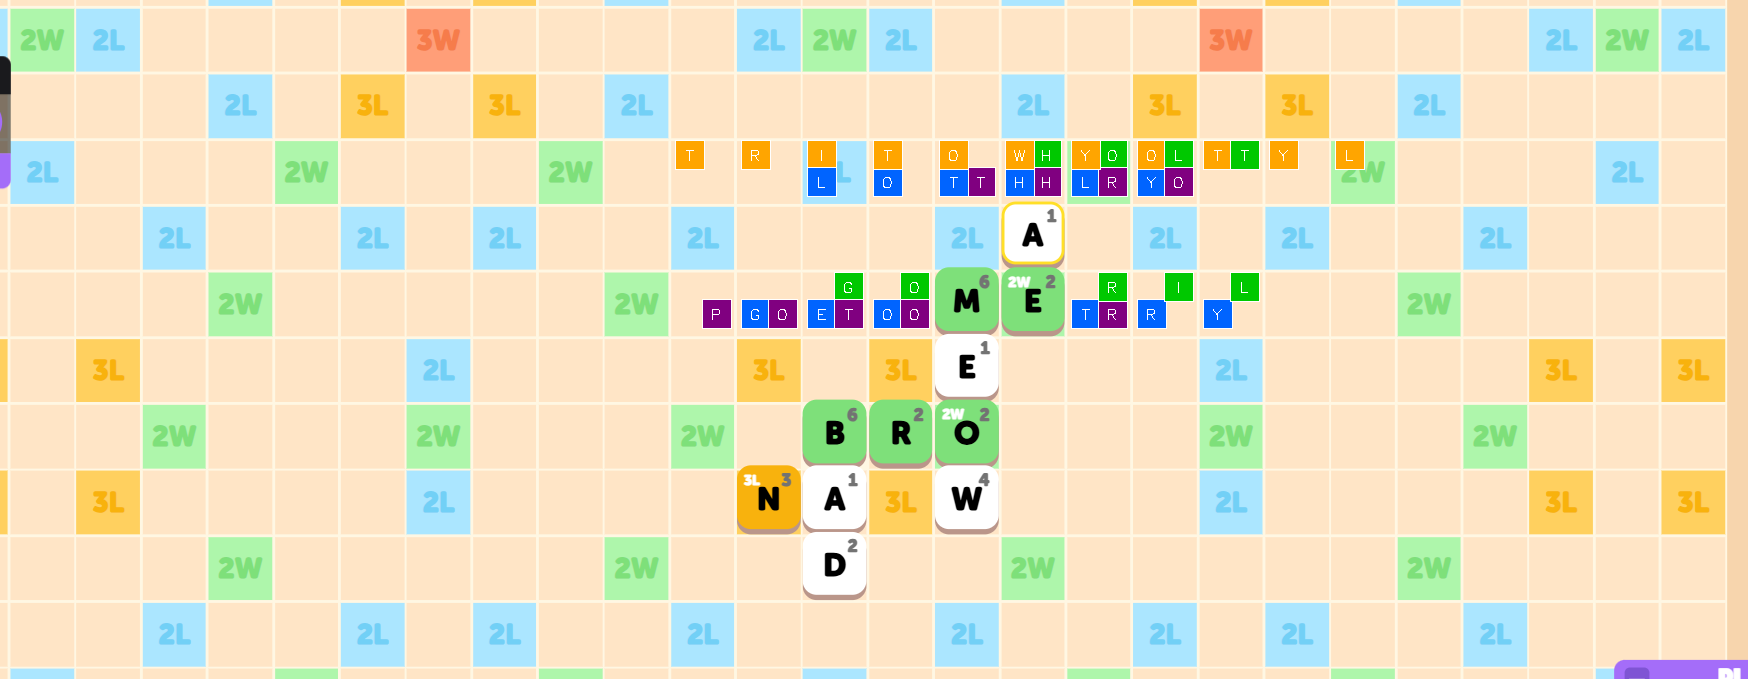
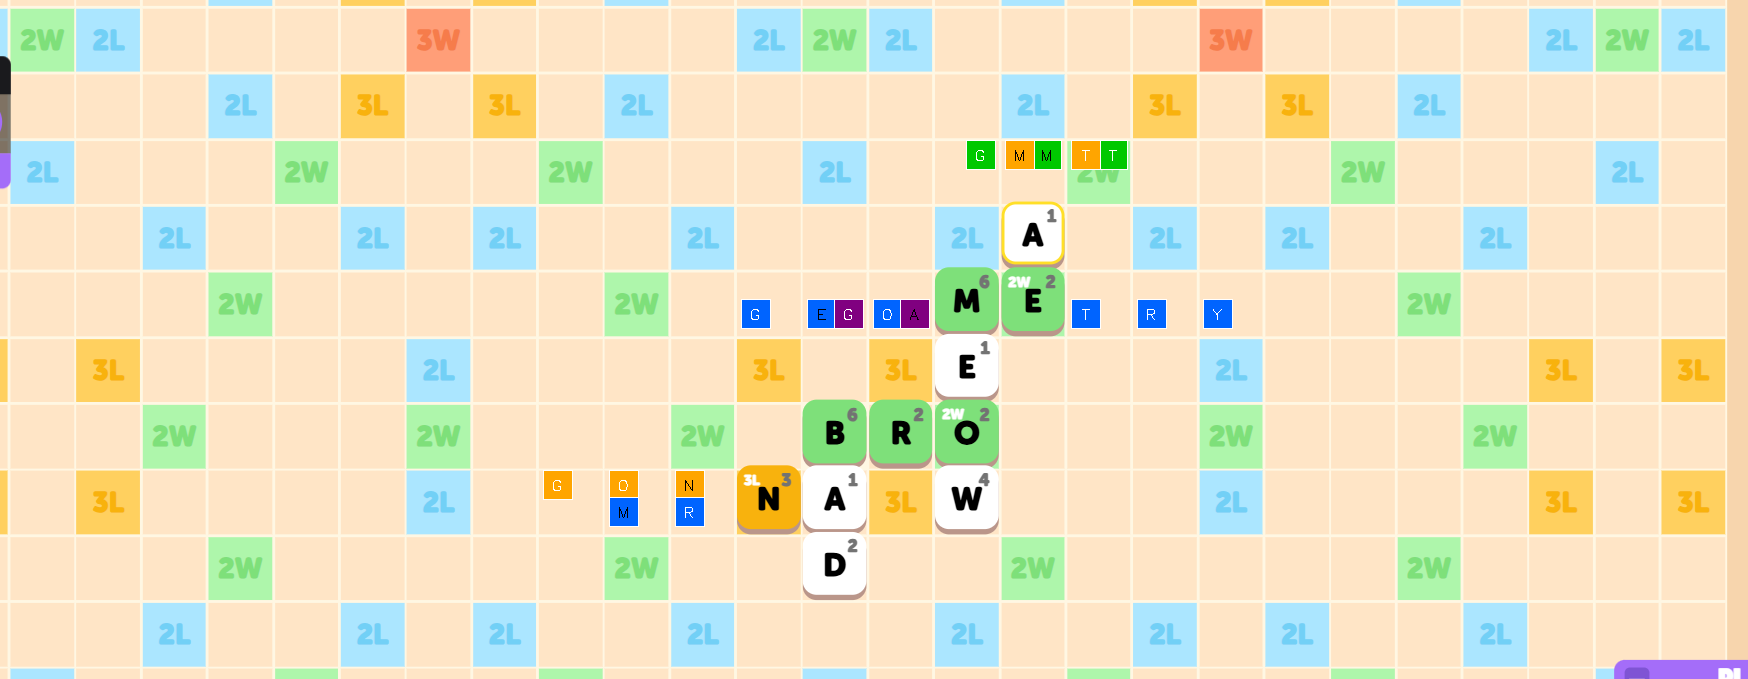
v2.13 用手牌版

diff --git a/website/letter_league/main.py b/website/letter_league/main.py
@@ -7,26 +7,23 @@ import time
 from collections import defaultdict
 
 # ==============================================================================
-# ⚙ 用户配置区域 (USER CONFIGURATION) - 在这里手动调整
+# ⚙ 用户配置区域 (USER CONFIGURATION)
 # ==============================================================================
 
-# 📁 路径配置
-INPUT_IMAGE = "./test.png"       # 游戏截图路径
-LOGO_IMAGE  = "./test_logo.png"  # Logo 模板路径
-DICT_FILE   = "./twl06_ENABLE.txt"      # 字典文件路径
-OUTPUT_DIR  = "./output"         # 输出目录 (不再使用 combined 子文件夹)
+INPUT_IMAGE = "./test.png"
+LOGO_IMAGE  = "./test_logo.png"
+DICT_FILE   = "./twl06_google10000.txt"
+OUTPUT_DIR  = "./output"
 
-# 🤖 推荐算法配置
-REC_TOP_N   = 6    # 推荐前几名最佳走法 (比如 3 或 5)
-REC_SHORT_N = 6    # 推荐前几名短走法 (用于防守或清牌)
-MIN_DIST    = 1    # 走法之间的最小格距离 (避免推荐挤在一起，设为 0 则不限制)
-SHORT_LEN   = 4    # 定义"短走法"的最大长度 (<= 这个长度算短词)
+REC_TOP_N   = 3    # 推荐前几名
+REC_SHORT_N = 3    # 推荐短词前几名
+MIN_DIST    = 3    # 走法间距
+SHORT_LEN   = 4    # 短词定义
 
-# 🎨 可视化配置
-VIS_SHOW_DEBUG = True  # 是否保存中间的调试图 (如网格线、分割图)
+VIS_SHOW_DEBUG = True
 
 # ==============================================================================
-# 🧠 第一部分：GADDAG 核心算法 & 求解器
+# 🧠 第一部分：GADDAG 核心算法
 # ==============================================================================
 
 class GADDAGNode:
@@ -72,12 +69,17 @@ class GADDAG:
         node.is_end = True
     
     def contains(self, word):
-        path = word[::-1] + self.delimiter
+        # 验证单词是否存在 (全大写)
+        path = word.upper()[::-1] + self.delimiter
         node = self.root
         for c in path:
             if c not in node.edges: return False
             node = node.edges[c]
         return node.is_end
+
+# ==============================================================================
+# 🧠 第二部分：求解器 (修复万能牌 & 强制出牌逻辑)
+# ==============================================================================
 
 class ScrabbleSolver:
     def __init__(self, gaddag):
@@ -94,15 +96,21 @@ class ScrabbleSolver:
     def solve(self, rack_str):
         self.rack = list(rack_str.upper())
         self.results = []
+        
+        # 1. 计算 Cross-Sets
         self._compute_cross_sets()
+        
+        # 2. 搜索
         for row in range(self.N):
             self._gen_row(row)
             
         unique = {}
         for res in self.results:
+            # key 包括单词、位置
             key = f"{res['word']}_{res['row']}_{res['col']}"
             if key not in unique: unique[key] = res
         
+        # 按长度排序
         return sorted(unique.values(), key=lambda x: len(x['word']), reverse=True)
 
     def _compute_cross_sets(self):
@@ -141,12 +149,9 @@ class ScrabbleSolver:
         anchors = []
         for i in range(self.N):
             if line[i] == '':
-                has_neighbor = False
-                if i>0 and line[i-1]!='': has_neighbor=True
-                if i<14 and line[i+1]!='': has_neighbor=True
-                if row>0 and self.board[row-1][i]!='': has_neighbor=True
-                if row<14 and self.board[row+1][i]!='': has_neighbor=True
-                if has_neighbor: anchors.append(i)
+                if (i>0 and line[i-1]!='') or (i<14 and line[i+1]!='') or \
+                   (row>0 and self.board[row-1][i]!='') or (row<14 and self.board[row+1][i]!=''):
+                    anchors.append(i)
         
         if not anchors and all(c=='' for r_ in self.board for c in r_):
             anchors.append(7)
@@ -156,34 +161,49 @@ class ScrabbleSolver:
             
             allowed = self.cross_sets[row][anchor]
             unique_rack = set(self.rack)
-            candidates = allowed if '?' in unique_rack else allowed.intersection(unique_rack)
+            
+            # 候选集：Rack里的字 OR (如果有问号 ? 则允许所有 CrossSet 里的字)
+            if '?' in unique_rack:
+                candidates = allowed
+            else:
+                candidates = allowed.intersection(unique_rack)
 
             for char in candidates:
                 if char in self.g.root.edges:
+                    # 决定消耗什么：优先消耗实名牌，没有则消耗 ?
                     to_remove = char if char in self.rack else '?'
+                    
                     if to_remove in self.rack:
                         self.rack.remove(to_remove)
+                        
+                        # 核心点：如果是问号变的，记录为小写字母，方便显示
+                        display_char = char.lower() if to_remove == '?' else char
+                        
                         new_node = self.g.root.edges[char]
-                        self._gen(row, anchor-1, char, new_node, anchor, "LEFT")
+                        # tiles_placed = 1 (因为我们在 anchor 放了一张牌)
+                        self._gen(row, anchor-1, display_char, new_node, anchor, "LEFT", tiles_placed=1)
                         
                         if self.g.delimiter in new_node.edges:
                             right_node = new_node.edges[self.g.delimiter]
-                            self._gen(row, anchor+1, char, right_node, anchor, "RIGHT")
+                            self._gen(row, anchor+1, display_char, right_node, anchor, "RIGHT", tiles_placed=1)
                         
                         self.rack.append(to_remove)
 
-    def _gen(self, row, col, word, node, anchor_pos, direction):
+    # 增加 tiles_placed 参数，用于统计使用了几张手牌
+    def _gen(self, row, col, word, node, anchor_pos, direction, tiles_placed):
         if direction == "LEFT":
             if self.g.delimiter in node.edges:
                 right_node = node.edges[self.g.delimiter]
-                self._gen(row, anchor_pos + 1, word, right_node, anchor_pos, "RIGHT")
+                self._gen(row, anchor_pos + 1, word, right_node, anchor_pos, "RIGHT", tiles_placed)
             
             if col >= 0:
                 char_on_board = self.board[row][col]
                 if char_on_board != '': 
+                    # 板上有字：不消耗手牌
                     if char_on_board in node.edges:
-                        self._gen(row, col - 1, char_on_board + word, node.edges[char_on_board], anchor_pos, "LEFT")
+                        self._gen(row, col - 1, char_on_board + word, node.edges[char_on_board], anchor_pos, "LEFT", tiles_placed)
                 else: 
+                    # 板上无字：尝试放牌
                     allowed = self.cross_sets[row][col]
                     unique_rack = set(self.rack)
                     candidates = allowed if '?' in unique_rack else allowed.intersection(unique_rack)
@@ -193,12 +213,14 @@ class ScrabbleSolver:
                             to_remove = char if char in self.rack else '?'
                             if to_remove in self.rack:
                                 self.rack.remove(to_remove)
-                                self._gen(row, col - 1, char + word, node.edges[char], anchor_pos, "LEFT")
+                                display_char = char.lower() if to_remove == '?' else char
+                                self._gen(row, col - 1, display_char + word, node.edges[char], anchor_pos, "LEFT", tiles_placed + 1)
                                 self.rack.append(to_remove)
 
         elif direction == "RIGHT":
             if node.is_end:
-                if col >= 15 or self.board[row][col] == '':
+                # 只有当 (到达边界 OR 下一格为空) 且 (消耗了至少1张手牌) 时，才算有效
+                if (col >= 15 or self.board[row][col] == '') and tiles_placed > 0:
                     start_col = col - len(word)
                     if start_col >= 0 and col <= 15:
                          self.results.append({'word': word, 'row': row, 'col': start_col})
@@ -207,7 +229,7 @@ class ScrabbleSolver:
                 char_on_board = self.board[row][col]
                 if char_on_board != '':
                     if char_on_board in node.edges:
-                        self._gen(row, col + 1, word + char_on_board, node.edges[char_on_board], anchor_pos, "RIGHT")
+                        self._gen(row, col + 1, word + char_on_board, node.edges[char_on_board], anchor_pos, "RIGHT", tiles_placed)
                 else:
                     allowed = self.cross_sets[row][col]
                     unique_rack = set(self.rack)
@@ -218,19 +240,18 @@ class ScrabbleSolver:
                             to_remove = char if char in self.rack else '?'
                             if to_remove in self.rack:
                                 self.rack.remove(to_remove)
-                                self._gen(row, col + 1, word + char, node.edges[char], anchor_pos, "RIGHT")
+                                display_char = char.lower() if to_remove == '?' else char
+                                self._gen(row, col + 1, word + display_char, node.edges[char], anchor_pos, "RIGHT", tiles_placed + 1)
                                 self.rack.append(to_remove)
 
-
 # ==============================================================================
-# 👁 第二部分：OCR 视觉层 (适配新配置)
+# 👁 第三部分：可视化 (支持高亮万能牌)
 # ==============================================================================
 
 class LetterLeagueVision:
     def __init__(self):
         print("👁 初始化视觉模块...")
         self.reader = easyocr.Reader(['en'], gpu=False, verbose=False)
-        # 修改：直接使用配置的输出目录
         self.out_dir = OUTPUT_DIR
         os.makedirs(self.out_dir, exist_ok=True)
         self.correction_map = {'0': 'O', '8': 'B', '6': 'G', '5': 'S', '1': 'I', '2': 'Z'}
@@ -284,12 +305,9 @@ class LetterLeagueVision:
             return img[y1:y2, x1:x2]
         board = safe_crop(0.00, 0.13, 0.9, 0.70)
         rack  = safe_crop(0.35, 0.87, 0.28, 0.11)
-        
-        # 只在 debug 开启时保存中间图片
         if VIS_SHOW_DEBUG:
             if board.size > 0: cv2.imwrite(f"{self.out_dir}/debug_seg_board.png", board)
             if rack.size > 0: cv2.imwrite(f"{self.out_dir}/debug_seg_rack.png", rack)
-            
         return board, rack
 
     def ocr_rack(self, img):
@@ -409,24 +427,20 @@ class LetterLeagueVision:
             grid_origin_y = anchor_tile['cy'] - anchor_row_idx * true_step_y
             
             debug_viz = img.copy() if VIS_SHOW_DEBUG else None
-            
             for d in detected_raw:
                 c_idx = int(round((d['cx'] - grid_origin_x) / true_step_x))
                 r_idx = int(round((d['cy'] - grid_origin_y) / true_step_y))
                 c_idx = max(0, min(14, c_idx))
                 r_idx = max(0, min(14, r_idx))
                 matrix[r_idx][c_idx] = d['char']
-                
                 if debug_viz is not None:
                      cv2.rectangle(debug_viz, (int(d['cx'])-10, int(d['cy'])-10), (int(d['cx'])+10, int(d['cy'])+10), (0,255,0), 1)
-
             if debug_viz is not None:
                  cv2.imwrite(f"{self.out_dir}/debug_grid_fit.png", debug_viz)
 
         self.grid_params = (grid_origin_x, grid_origin_y, true_step_x, true_step_y)
         return matrix
 
-    # 🎨 四角轮换可视化
     def visualize_batch(self, moves_list, board_matrix):
         if not self.grid_params or self.seg_board_img is None:
             print("⚠ 无法绘制，缺少网格参数或图片")
@@ -435,8 +449,6 @@ class LetterLeagueVision:
         ox, oy, sx, sy = self.grid_params
         img = self.seg_board_img.copy()
 
-        # 配置：每个Rank对应的 (位置偏移, 颜色, 描述)
-        # BL=(-0.25, 0.25), TL=(-0.25, -0.25), TR=(0.25, -0.25), BR=(0.25, 0.25)
         styles = [
             {'offset': (-0.2, 0.2),  'color': (255, 100, 0),   'name': 'BL (1st)'}, # Blue
             {'offset': (-0.2, -0.2), 'color': (0, 165, 255),   'name': 'TL (2nd)'}, # Orange
@@ -444,7 +456,6 @@ class LetterLeagueVision:
             {'offset': (0.2, 0.2),   'color': (128, 0, 128),   'name': 'BR (4th)'}  # Purple
         ]
 
-        # 遍历所有要画的走法
         for rank, move in enumerate(moves_list):
             style = styles[rank % 4]
             word = move['word']
@@ -464,19 +475,27 @@ class LetterLeagueVision:
                     x1, y1 = px - box_size//2, py - box_size//2
                     x2, y2 = x1 + box_size, y1 + box_size
                     
-                    cv2.rectangle(img, (x1, y1), (x2, y2), style['color'], -1)
+                    # 背景颜色：始终使用当前排名的颜色
+                    bg_color = style['color']
+                    
+                    cv2.rectangle(img, (x1, y1), (x2, y2), bg_color, -1)
                     cv2.rectangle(img, (x1, y1), (x2, y2), (255, 255, 255), 1)
                     
+                    # 绘制字母 (转回大写显示)
                     font_scale = 0.5
                     thickness = 1
-                    (tw, th), _ = cv2.getTextSize(char, cv2.FONT_HERSHEY_SIMPLEX, font_scale, thickness)
+                    display_char = char.upper()
+                    (tw, th), _ = cv2.getTextSize(display_char, cv2.FONT_HERSHEY_SIMPLEX, font_scale, thickness)
                     tx = px - tw // 2
                     ty = py + th // 2
-                    cv2.putText(img, char, (tx, ty), cv2.FONT_HERSHEY_SIMPLEX, font_scale, (255, 255, 255), thickness)
+                    
+                    # 万能牌用黑色字，普通牌用白色字
+                    text_color = (0, 0, 0) if char.islower() else (255, 255, 255)
+                    cv2.putText(img, display_char, (tx, ty), cv2.FONT_HERSHEY_SIMPLEX, font_scale, text_color, thickness)
 
         out_path = f"{self.out_dir}/board_result_final.png"
         cv2.imwrite(out_path, img)
-        print(f"✨ 结果已保存: {out_path}")
+        print(f"✨ 结果已保存: {out_path} (BL=Rank1, TL=Rank2, TR=Rank3, BR=Rank4)")
 
 # ==============================================================================
 # 🚀 辅助函数
@@ -522,21 +541,23 @@ if __name__ == "__main__":
         print(f"\n✅ 计算完成! 耗时 {time.time()-start_t:.3f}s, 找到 {len(moves)} 种走法")
         
         if moves:
-            # 1. 筛选 Top N (使用配置参数)
+            # 1. 筛选 Top N
             diverse_top = get_diverse_moves(moves, top_n=REC_TOP_N, min_dist=MIN_DIST)
             print(f"\n🏆 Top {REC_TOP_N} 最佳推荐:")
             for i, m in enumerate(diverse_top):
-                print(f"  {i+1}. {m['word']} (Row {m['row']}, Col {m['col']}, Len {len(m['word'])})")
+                # 如果包含小写字母，说明用了万能牌，打印提示
+                wildcard_info = " (含万能牌)" if any(c.islower() for c in m['word']) else ""
+                print(f"  {i+1}. {m['word'].upper()}{wildcard_info} (Row {m['row']}, Col {m['col']}, Len {len(m['word'])})")
 
-            # 2. 筛选 短词 Top N (使用配置参数)
+            # 2. 筛选 短词 Top N
             short_moves = [m for m in moves if len(m['word']) <= SHORT_LEN]
             diverse_short = get_diverse_moves(short_moves, top_n=REC_SHORT_N, min_dist=MIN_DIST)
             
             print(f"\n🐣 Top {REC_SHORT_N} 短走法 (<= {SHORT_LEN}):")
             for i, m in enumerate(diverse_short):
-                print(f"  {i+1}. {m['word']} (Row {m['row']}, Col {m['col']})")
+                 print(f"  {i+1}. {m['word'].upper()} (Row {m['row']}, Col {m['col']})")
 
-            # 3. 批量可视化 (合并列表)
+            # 3. 批量可视化
             final_visualization_list = diverse_top + diverse_short
             vision.visualize_batch(final_visualization_list, board)
         else:
